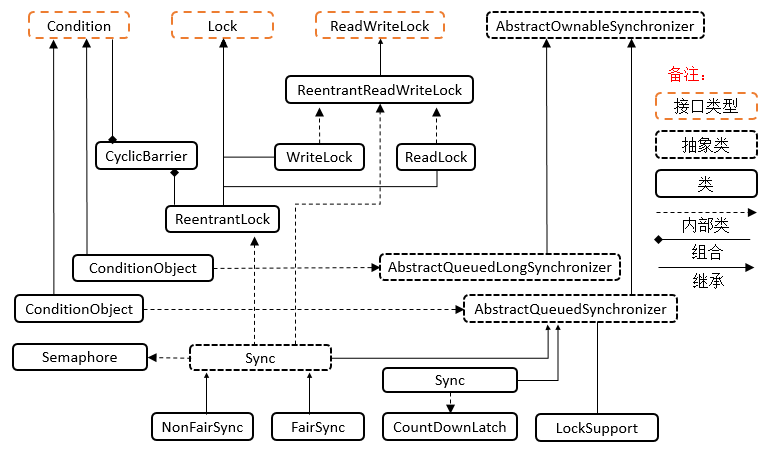
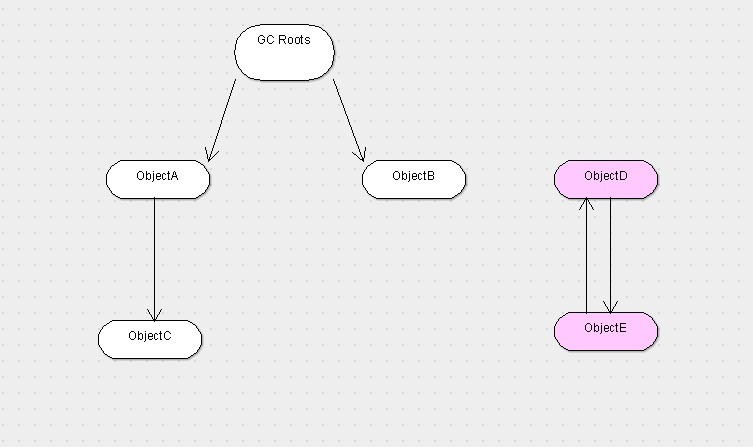
GitBook: [master] 21 pages and 11 assets modified

diff --git a/jvm/memory-model.md b/jvm/memory-model.md
@@ -8,6 +8,12 @@ description: 图灵学院
 
 ![JVM&#x5185;&#x5B58;&#x6A21;&#x578B;](../.gitbook/assets/jvm-nei-cun-mo-xing.jpg)
 
+## 更新
+
+JDK 1.7之后： **JVM 已经将运行时常量池从方法区中移了出来，在 Java 堆（Heap）中开辟了一块区域存放运行时常量池。**\[4\]
+
+
+
 ## 栈
 
 栈\(线程\) 保存线程信息：线程内局部产量（？），栈帧\(每调用一个方法，都新建一个与之对应的栈帧\) 。
@@ -19,11 +25,54 @@ description: 图灵学院
 * 动态链接：指向类元信息中的方法，将符号形式的方法调用翻译成实际方法调用。 
 * 方法出口：指向调用本方法的位置
 
-## 堆
+## 堆 & 垃圾回收
 
 保存new出来的对象\(new出来的对象中都有一个指针，指向该类的类元信息，动态链接\)。 
 
+### 垃圾回收算法
+
+1. 标记 - 清除
+2. 复制
+3. 标记 - 整理
+4. 分代
+
+![&#x6807;&#x8BB0; - &#x6E05;&#x9664;](../.gitbook/assets/image%20%287%29.png)
+
+![&#x590D;&#x5236;](../.gitbook/assets/image%20%2810%29.png)
+
+![&#x6807;&#x8BB0;&#x6574;&#x7406;](../.gitbook/assets/image%20%284%29.png)
+
+----图片来自：[https://snailclimb.top/JavaGuide/\#/./java/jvm/JVM%E5%9E%83%E5%9C%BE%E5%9B%9E%E6%94%B6?id=\_3-%E5%9E%83%E5%9C%BE%E6%94%B6%E9%9B%86%E7%AE%97%E6%B3%95](https://snailclimb.top/JavaGuide/#/./java/jvm/JVM%E5%9E%83%E5%9C%BE%E5%9B%9E%E6%94%B6?id=_3-%E5%9E%83%E5%9C%BE%E6%94%B6%E9%9B%86%E7%AE%97%E6%B3%95)
+
+* 分代回收（新生代、老年代、永久代）
+  * 在新生代 - 复制 算法
+  * 在老年代 - 标记整理算法
+  * 标记清除算法
+* 分区回收：分区算法则将整个堆空间划分为连续的不同小区间, 每个小区间独立使用, 独立回收
+
+永久代是Hotspot虚拟机特有的概念，是方法区的一种实现，别的JVM都没有这个东西。在Java 8中，永久代被彻底移除，取而代之的是另一块与堆不相连的本地内存——元空间。\[1\]  
+永久代或者“Perm Gen”包含了JVM需要的应用元数据，这些元数据描述了在应用里使用的类和方法。注意，永久代不是Java堆内存的一部分。
+
+哪些对象要被销毁？
+
+* 引用计数算法：存在循环引用的问题
+* 跟搜索算法：**设立若干种根对象，当任何一个根对象到某一个对象均不可达时，则认为这个对象是可以被回收的**。\[2\]
+
+### GC Roots
+
+A garbage collection root is an object that is **accessible from outside the heap**. The following reasons make an object a GC root:\[3\]
+
+* System Class
+* JNI Local: Local variable in native code, such as user defined JNI code or JVM internal code.
+* Thread
+* Native Stack
+* ...
+
+![&#x8DDF;&#x641C;&#x7D22;&#x7B97;&#x6CD5;](../.gitbook/assets/image.png)
+
 ！！！堆 new出来的对象\(保存在堆中的内容\)什么时候被销毁？
+
+### 分代回收
 
 堆内存大小可以配置，以600兆为例，默认老年代占400兆\(2/3\)，年轻代占200兆\(1/3\)，eden区占160兆\(年轻代的8/10\)。
 
@@ -39,9 +88,50 @@ description: 图灵学院
 
 年轻代的gc称为manner gc, 老年代的gc成为full gc, full gc的过程非常慢。 若full gc的清理没有释放内存空间\(比如程序设计错误引发内存泄露\)，此时发生oom\(out of memory\).
 
+### 收集器
+
+jdk.hotspot.agent:sun.jvm.hotspot.gc下的几个package：
+
+* serial
+* Concurrent mark sweep\(CMS\)
+* G1
+* parallel
+* shared
+
+```java
+public abstract class CollectedHeap extends VMObject{}
+public class CMSHeap extends GenCollectedHeap{}
+public class G1CollectedHeap extends CollectedHeap{}
+public class GenCollectedHeap extends CollectedHeap{}
+public class ParallelScavengeHeap extends CollectedHeap {}
+public class SerialHeap extends GenCollectedHeap {}
+```
+
+Garbage collector：
+
+* Serial：新生代复制，
+  * 单线程收集器，进行垃圾收集时，需要暂停其他所有工作线程；
+  * 优点：简单高效。JVM在client模式下 默认的新生代垃圾收集器
+* ParNew：Serial的多线程版本，复制算法，
+  * 多线程进行垃圾收集工作，需要暂停其他线程；默认开启与CPU数目相同的线程
+  * 简单高效。server端的默认GC
+* Parallel scavenge：新生代复制，
+  * 与Serial 的区别：重点关注的是程序达到一个可控制的吞吐量。Parallel Scavenge 收集器提供了很多参数供用户找到最合适的停顿时间或最大吞吐量。
+  * 吞吐量：代码运行时间 / \(代码运行时间 + GC时间\)
+* Serial old：serial的老年代版本，单线程 标记-整理算法
+  * client端 默认的老年代GC
+  * server 端
+* Parallel old：parallel scavenge 的老年代版本，多线程标记 - 整理算法
+* Concurrent mark sweep：老年代GC，多线程 标记-清除，
+  * 主要目标：获得最短垃圾回收停顿时间
+* G1 \(Garbage-First\)：是一款面向服务器的垃圾收集器
+  * 主要针对配备多颗处理器及大容量内存的机器. 以极高概率满足GC停顿时间要求的同时,还具备高吞吐量性能特征
+
 ## 方法区/元空间
 
 保存静态变量，常量，类元信息\(类的模板\)
+
+方法区（相当于接口）与永久代（相当于实现类）：永久代是方法区的一种实现方式。
 
 **注意！**堆和方法区线程共享。 线程栈，本地方法栈和程序计数器 线程独享。
 
@@ -53,7 +143,22 @@ description: 图灵学院
 
 字节码文件被类加载器拆解，对应的数据放到内存模型的对应位置。
 
+## JVM调优
+
+环境
+
+* 调整堆内存大小、各个分区比例等
+* 垃圾回收器的选择
+
 Javap -c 对class文件进行反汇编，生成汇编文件，对照jvm指令手册可以查看汇编命令的含义。
 
+## reference
 
+\[1\] [https://www.cnblogs.com/snowwhite/p/9532311.html](https://www.cnblogs.com/snowwhite/p/9532311.html)
+
+\[2\] [https://www.cnblogs.com/zuoxiaolong/p/jvm3.html](https://www.cnblogs.com/zuoxiaolong/p/jvm3.html)
+
+\[3\] [http://help.eclipse.org/luna/topic/org.eclipse.mat.ui.help/concepts/gcroots.html?resultof=%22%47%61%72%62%61%67%65%22%20%22%67%61%72%62%61%67%22%20%22%43%6f%6c%6c%65%63%74%69%6f%6e%22%20%22%63%6f%6c%6c%65%63%74%22%20%22%52%6f%6f%74%73%22%20%22%72%6f%6f%74%22%20](http://help.eclipse.org/luna/topic/org.eclipse.mat.ui.help/concepts/gcroots.html?resultof=%22%47%61%72%62%61%67%65%22%20%22%67%61%72%62%61%67%22%20%22%43%6f%6c%6c%65%63%74%69%6f%6e%22%20%22%63%6f%6c%6c%65%63%74%22%20%22%52%6f%6f%74%73%22%20%22%72%6f%6f%74%22%20)
+
+\[4\] [https://snailclimb.top/JavaGuide/\#/?id=java](https://snailclimb.top/JavaGuide/#/?id=java)
 

diff --git a/thread/1.foundation.md b/thread/1.foundation.md
@@ -65,6 +65,39 @@ class Test{
 * 运行 ：running
 * 结束：dead
 
+### 启动线程
+
+* Thread\#start\(\)
+* Runnable\#run\(\)
+
+```java
+/**
+ * The result is that two threads are running concurrently: the
+ * current thread (which returns from the call to the
+ * <code>start</code> method) and the other thread (which executes its
+ * <code>run</code> method).
+ */
+public synchronized void start() {}
+ /**
+  * If this thread was constructed using a separate
+  * <code>Runnable</code> run object, then that
+  * <code>Runnable</code> object's <code>run</code> method is called;
+  * otherwise, this method does nothing and returns.
+  * <p>
+  * Subclasses of <code>Thread</code> should override this method.
+  *
+  * @see     #start()
+  * @see     #stop()
+  * @see     #Thread(ThreadGroup, Runnable, String)
+*/
+@Override
+public void run() {
+    if (target != null) {
+        target.run();
+    }
+}
+```
+
 ### 结束进程 
 
 * 自然终止：线程体执行结束 
@@ -77,6 +110,11 @@ class Test{
 thread.join\(\)方法：合并线程，等thread终止后本线程\(调用该方法的线程\)再执行。
 
 Thread.yield\(\)方法：暂停自己，谁调用谁被暂停
+
+sleep\(\)方法：线程暂停一段时间，释放cpu，不释放线程占用的资源锁
+
+wait\(\)方法：Causes the current thread to wait until it is awakened, typically by being _notified_ or _interrupted_. ——与sleep的区别：释放线程的资源锁。  
+wait\(long timeoutMillis, int nanos\) 被唤醒或者指定之间之后唤醒
 
 ## synchronized关键字
 
@@ -127,9 +165,18 @@ java中的单例设计模式：Runtime类
 
 ### 死锁
 
-同步方法过多，容易造成死锁
+同步方法过多，容易造成死锁。
 
-解决方法：生产者消费者模式
+死锁的四个必要条件：
+
+* 互斥（资源）
+* 资源持有与等待
+* 不剥夺
+* 循环等待
+
+解决方法：破坏上述任意一个条件即可。
+
+经典方式：生产者消费者模式。
 
 wait\(\)与notify\(\)方法用于唤醒线程，只用于线程同步。
 
@@ -137,7 +184,19 @@ Timer类schedule\(timertask,time,period\)方法在指定的时间调用指定任
 
 QUARTZ框架
 
-### 总结
+## 线程的上下文切换
+
+上下文切换会带来程序性能的消耗\[1\]。直接消耗包括：
+
+* CPU寄存器需要保存和加载
+* 系统调度器的代码需要执行
+* TLB实例需要重新加载
+* CPU 的pipeline需要刷掉
+
+间接消耗指的是：多核的cache之间得共享数据。  
+间接消耗对于程序的影响要看线程工作区操作数据的大小
+
+## 总结
 
 1、创建线程：三种方法 
 
@@ -152,4 +211,8 @@ QUARTZ框架
 6、任务调度Timer
 
 后续目标：juc/quartz
+
+## Reference
+
+[https://www.cnblogs.com/EthanCai/p/3705834.html](https://www.cnblogs.com/EthanCai/p/3705834.html)
 

diff --git a/SUMMARY.md b/SUMMARY.md
@@ -16,9 +16,12 @@
 * [8. Table](collection/8.-table.md)
 * [9. Commons](collection/9.-commons.md)
 * [10. Summary](collection/10.-zong-jie.md)
-* [IO](collection/io.md)
-* [1. input and output](collection/1.-wen-jian-io.md)
-* [2. cache](collection/2.-huan-cun.md)
+
+## IO
+
+* [1. input and output](io/1.-wen-jian-io.md)
+* [2. cache](io/2.-huan-cun.md)
+* [Untitled](io/untitled.md)
 
 ## thread
 
@@ -35,8 +38,7 @@
 
 * [1. 注解与反射](java-dynamic/1.annotation-and-reflect.md)
 * [2. 动态编译](java-dynamic/2.dynamic-compiling.md)
-* [3. JVM核心机制与类加载器](java-dynamic/2.-jvm-and-classloader.md)
-* [4. 内部类](java-dynamic/4.inner-classes.md)
+* [3. 内部类](java-dynamic/4.inner-classes.md)
 
 ## 设计模式
 
@@ -48,6 +50,7 @@
 ## JVM
 
 * [内存模型](jvm/memory-model.md)
+* [JVM核心机制与类加载器](jvm/2.-jvm-and-classloader.md)
 * [synchronized锁机制](jvm/synchronized.md)
 * [JVM](jvm/jvm.md)
 
@@ -61,4 +64,16 @@
 * [跨数据库的分布式事务](frameworks/transaction-cross-database.md)
 * [Spring功能扩展](frameworks/spring-kuo-zhan.md)
 * [Spring](frameworks/spring-study-map.md)
+* [mybatis](frameworks/mybatis.md)
+
+## 编程题
+
+* [二叉树的镜像](bian-cheng-ti/er-cha-shu-de-jing-xiang.md)
+* [顺时针打印矩阵](bian-cheng-ti/shun-shi-zhen-da-yin-ju-zhen.md)
+* [包含min\(\)的栈](bian-cheng-ti/bao-han-min-de-zhan.md)
+* [栈的压入、弹出序列](bian-cheng-ti/zhan-de-ya-ru-tan-chu-xu-lie.md)
+
+## 面试题
+
+* [hashcode & equals](mian-shi-ti/hashcode-and-equals.md)
 

diff --git a/mian-shi-ti/hashcode-and-equals.md b/mian-shi-ti/hashcode-and-equals.md
@@ -1,0 +1,22 @@
+# hashcode & equals
+
+```java
+/**
+ * Returns a hash code value for the object. This method is
+ * supported for the benefit of hash tables such as those provided by
+ * {@link java.util.HashMap}.
+ */
+@HotSpotIntrinsicCandidate
+public native int hashCode();
+
+/**
+ * Note that it is generally necessary to override the {@code hashCode}
+ * method whenever this method is overridden, so as to maintain the
+ * general contract for the {@code hashCode} method, which states
+ * that equal objects must have equal hash codes.
+ */
+public boolean equals(Object obj) {
+    return (this == obj);
+}
+```
+

diff --git a/README.md b/README.md
@@ -28,7 +28,7 @@ description: Start from now！
 
 ## IO
 
-{% page-ref page="collection/1.-wen-jian-io.md" %}
+{% page-ref page="io/1.-wen-jian-io.md" %}
 
 ## 线程
 
@@ -50,7 +50,7 @@ description: Start from now！
 
 {% page-ref page="java-dynamic/2.dynamic-compiling.md" %}
 
-{% page-ref page="java-dynamic/2.-jvm-and-classloader.md" %}
+{% page-ref page="jvm/2.-jvm-and-classloader.md" %}
 
 {% page-ref page="java-dynamic/4.inner-classes.md" %}
 

diff --git a/frameworks/mybatis.md b/frameworks/mybatis.md
@@ -1,0 +1,13 @@
+# mybatis
+
+{% embed url="http://www.mybatis.org/spring/zh/getting-started.html" %}
+
+{% embed url="http://www.mybatis.org/mybatis-3/zh/index.html" %}
+
+重要组件
+
+* SqlSessionFactory
+* MapperFactoryBean
+
+代理模式的应用？
+

diff --git a/thread/3.-java.util.concurrent.md b/thread/3.-java.util.concurrent.md
@@ -4,7 +4,7 @@ description: java api
 
 # 3. java.util.concurrent
 
-![http://www.cnblogs.com/leesf456/p/5344133.html](../.gitbook/assets/image.png)
+![http://www.cnblogs.com/leesf456/p/5344133.html](../.gitbook/assets/image%20%283%29.png)
 
 ## Executors
 

diff --git a/jvm/jvm.md b/jvm/jvm.md
@@ -36,7 +36,7 @@ Hotspot JVM 后台运行的系统线程有：
 
 ### 2.1 内存空间
 
-* 方法区
+* 方法区 / 元空间
 * 堆
 * 方法栈
 * 本地方法栈

diff --git a/java-dynamic/4.inner-classes.md b/java-dynamic/4.inner-classes.md
@@ -1,4 +1,4 @@
-# 4. 内部类
+# 3. 内部类
 
 内部类\嵌套类多应用在GUI编程、SWT、SWING、android编程等方面。 
 

diff --git a/bian-cheng-ti/zhan-de-ya-ru-tan-chu-xu-lie.md b/bian-cheng-ti/zhan-de-ya-ru-tan-chu-xu-lie.md
@@ -1,0 +1,6 @@
+---
+description: 剑指offer in 牛客
+---
+
+# 栈的压入、弹出序列
+

diff --git a/bian-cheng-ti/shun-shi-zhen-da-yin-ju-zhen.md b/bian-cheng-ti/shun-shi-zhen-da-yin-ju-zhen.md
@@ -1,0 +1,6 @@
+---
+description: 剑指offer in 牛客
+---
+
+# 顺时针打印矩阵
+
